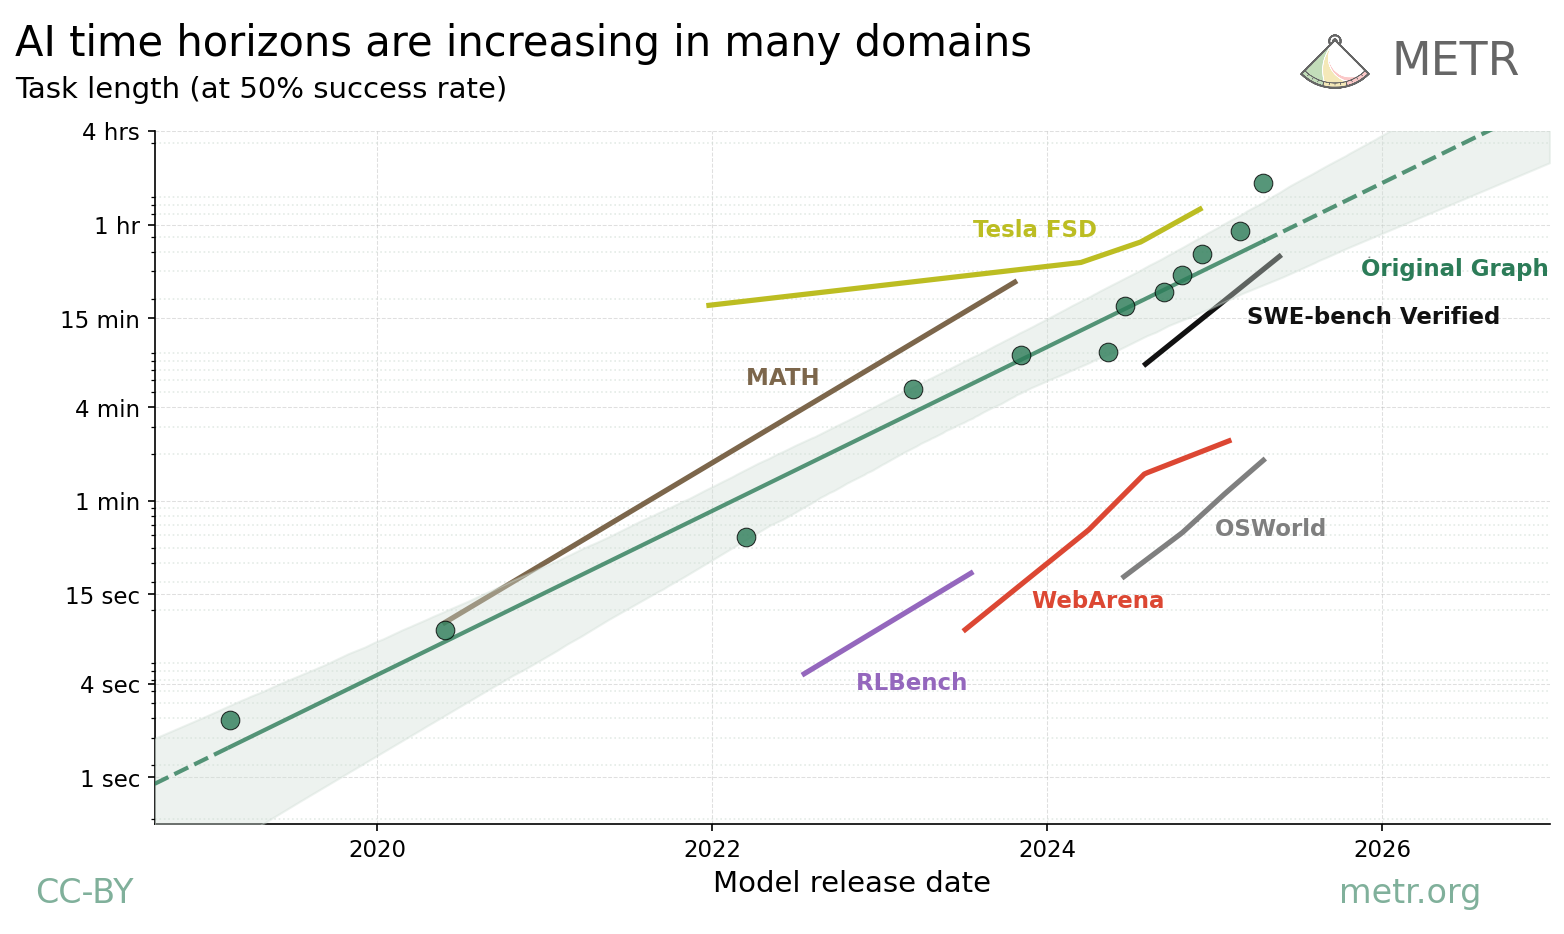
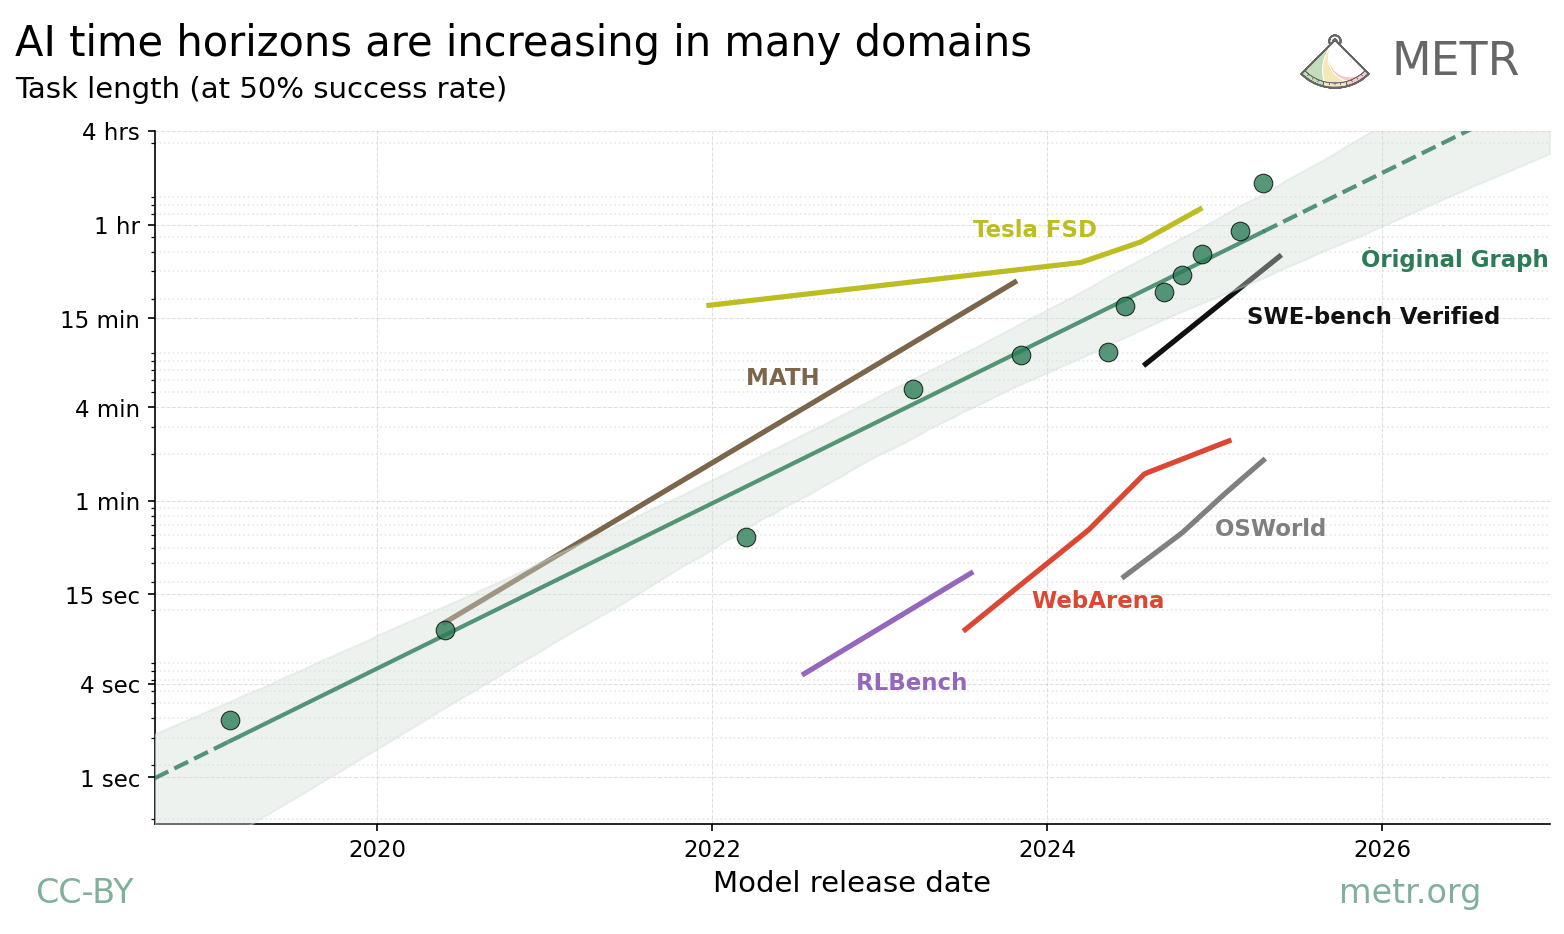
fixed the trendlineoffbypixel issue. the regression was taking in some nonfrontier models. janky patch by removing those models

diff --git a/combined.py b/combined.py
@@ -135,10 +135,11 @@ def fit_trendline(
     # Convert dates to numeric values for regression
     X = date2num(release_dates).reshape(-1, 1)
     
+    p50s_clipped = p50s.clip(1e-3, np.inf)
     if log_scale:
-        y = np.log(p50s)  # Log transform for exponential fitting
+        y = np.log(p50s_clipped)  # Log transform for exponential fitting
     else:
-        y = p50s
+        y = p50s_clipped
     
     reg = LinearRegression().fit(X, y)
     score = reg.score(X, y)
@@ -194,7 +195,7 @@ def add_bootstrap_confidence_region(
     focus_agents = sorted(list(dates.keys()), key=lambda x: dates[x])
     focus_agents = [agent for agent in focus_agents if agent not in exclude_agents]
     doubling_times = []
-    
+   
     # Load pre-computed agent summaries
     agent_summary_df = pd.read_csv(agent_summaries_file)
     
@@ -220,6 +221,7 @@ def add_bootstrap_confidence_region(
     valid_mask = (agent_summary_df['p50'] > 0) & \
                  (~agent_summary_df['p50'].isna())
     valid_agents = agent_summary_df[valid_mask]
+
     
     if len(valid_agents) < 2:
         raise ValueError(f"Not enough valid agents to fit trend line. Found {len(valid_agents)} valid agents, need at least 2")
@@ -229,6 +231,12 @@ def add_bootstrap_confidence_region(
         valid_agents['release_date'],
         log_scale=True
     )
+    # this was where the bug was. the four excluded models showed up here but not in the eval-pipeline repo
+    # print(valid_agents)
+    # print("COMBINED PLOT - agents included in trendline:",
+    #     list(valid_agents["agent"]))
+    # print(len(valid_agents))
+    # print("COMBINED PLOT - intercept (log-min):", main_reg.intercept_)
     
     # Fit exponential trend to each bootstrap sample
     valid_samples = 0
@@ -936,7 +944,7 @@ def main():
         bootstrap_data_file=bootstrap_data_file if show_bootstrap else None,
         agent_summaries_file=agent_summaries_file if show_bootstrap else None,
         confidence_level=0.95,  # 95% confidence interval
-        exclude_agents=[],  # Include all agents (GPT-2, GPT-3, etc.)
+        exclude_agents=["Claude 3 Opus", "GPT-4 0125", "GPT-4 Turbo", "o4-mini"],  
   
         # Visual settings
         show_individual_agents=True,  # Show red dots for individual models
